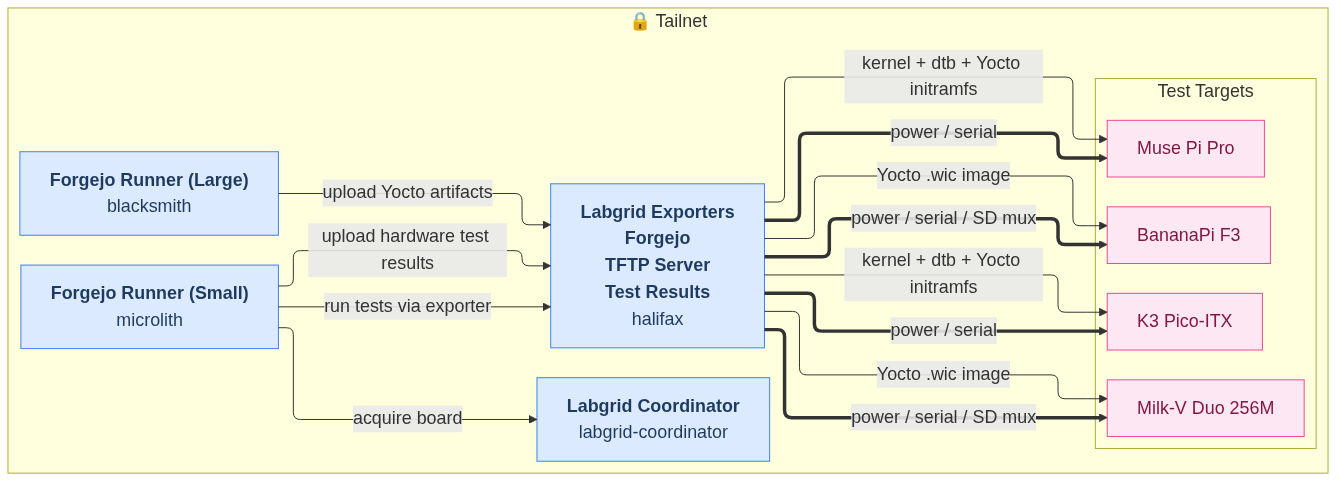
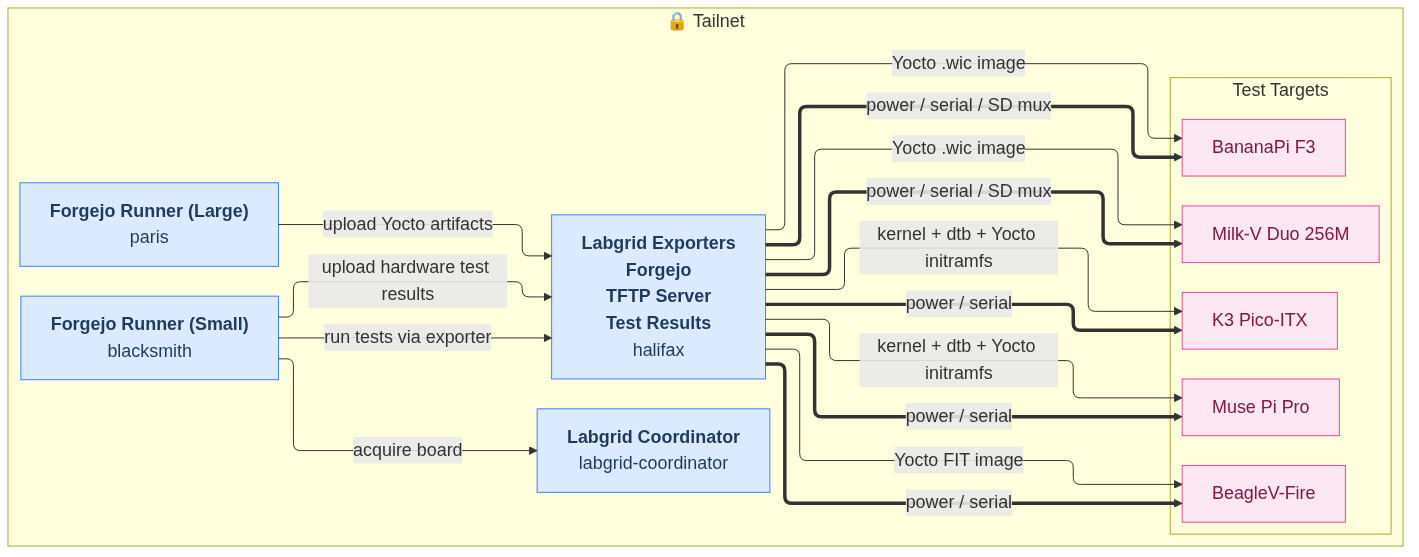
docs: update with new boards, connections
- Switch runners' info (blacksmith and microlith -> paris and
  blacksmith)
- Add BeagleV-Fire node, connections
- Update UARTs (Raspberry Pi Debug Probe -> BayLibre Copilot UART)

Changed region(s): [[0.0, 0.093, 1.0, 0.9917], [0.0, 0.0, 1.0, 0.062], [0.25, 0.7748, 0.3438, 0.8988]]

diff --git a/docs/bom.md b/docs/bom.md
@@ -11,8 +11,8 @@
 |----|----------|----------------|----|-------|-------|--------|
 | `halifax` | halifax | halifax.tailscale.baylibre.com | Debian 13 ("Trixie") | ThinkCentre M75q-1 | AMD Ryzen 5 PRO 3400GE<br/>16 GB DDR4 RAM | active |
 | `coordinator` | labgrid-coordinator | labgrid-coordinator.tailscale.baylibre.com | — | — | — | active |
-| `runner1` | blacksmith | blacksmith.tailscale.baylibre.com | Debian 13 | ThinkCentre M720q | Intel i9-9900T<br/>64 GB DDR4 RAM | active |
-| `runner2` | microlith | microlith.tailscale.baylibre.com | Fedora 44 | ThinkCentre M75q-1 | AMD Ryzen 5 PRO 3400GE<br/>16 GB DDR4 RAM | active |
+| `runner1` | paris | paris.tailscale.baylibre.com | Debian 13 | Custom | AMD Ryzen 9 9950X 16-Core Processor<br/>96 GB DDR5 RAM | active |
+| `runner2` | blacksmith | blacksmith.tailscale.baylibre.com | Debian 13 | ThinkCentre M720q | Intel i9-9900T<br/>64 GB DDR4 RAM | active |
 
 ## Services
 
@@ -32,14 +32,14 @@
 | `board_2` | Muse Pi Pro | SpacemiT | [Muse Pi Pro](https://www.spacemit.com/muse-pi-pro/) | riscv64 (RVA22 + RVV 1.0) | serial + power | active |
 | `board_3` | Milk-V Duo 256M | Milk-V | [Milk-V Duo 256M](https://milkv.io/docs/duo/getting-started/duo256m) | riscv64 (RV64GCV) | serial + power + sdmux | active |
 | `board_4` | K3 Pico-ITX | Sipeed | [K3 Pico-ITX](https://sipeed.com/k3) | riscv64 (RVA23) | serial + power | active |
-| `board_5` | BeagleV-Fire | BeagleBoard.org | [BeagleV-Fire](https://www.beagleboard.org/boards/beaglev-fire) | riscv64 (RV64GC, PolarFire SoC) | serial + power | active |
+| `board_5` | BeagleV-Fire | BeagleBoard | [BeagleV-Fire](https://www.beagleboard.org/boards/beaglev-fire) | riscv64 (RV64GC) | serial + power | active |
 
 ### BananaPi F3
 
 | Interface | Part | Part Number | Role |
 |-----------|------|-------------|------|
 | power | [BayLibre CoPilot](https://baylibre.com/copilot/) | BayLibre_Copilot_Lite_V1.2 | Power control |
-| serial | [Raspberry Pi Debug Probe](https://www.raspberrypi.com/products/debug-probe/) | Debug_Probe__CMSIS-DAP_0101 | USB-to-UART bridge |
+| serial | [BayLibre CoPilot](https://baylibre.com/copilot/) | BayLibre_Copilot_Lite_V1.2 | USB-to-UART bridge |
 | SD mux | [USB SD Mux](https://linux-automation.com/en/products/usb-sd-mux.html) | usb-sd-mux_rev4.0 | USB SD Mux controller |
 
 ### Muse Pi Pro
@@ -47,14 +47,14 @@
 | Interface | Part | Part Number | Role |
 |-----------|------|-------------|------|
 | power | [BayLibre CoPilot](https://baylibre.com/copilot/) | BayLibre_Copilot_Lite_V1.2 | Power control |
-| serial | [Raspberry Pi Debug Probe](https://www.raspberrypi.com/products/debug-probe/) | Debug_Probe__CMSIS-DAP_0101 | USB-to-UART bridge |
+| serial | [BayLibre CoPilot](https://baylibre.com/copilot/) | BayLibre_Copilot_Lite_V1.2 | USB-to-UART bridge |
 
 ### Milk-V Duo 256M
 
 | Interface | Part | Part Number | Role |
 |-----------|------|-------------|------|
 | power | [BayLibre CoPilot](https://baylibre.com/copilot/) | BayLibre_Copilot_Lite_V1.2 | Power control |
-| serial | [Raspberry Pi Debug Probe](https://www.raspberrypi.com/products/debug-probe/) | Debug_Probe__CMSIS-DAP_0101 | USB-to-UART bridge |
+| serial | [BayLibre CoPilot](https://baylibre.com/copilot/) | BayLibre_Copilot_Lite_V1.2 | USB-to-UART bridge |
 | SD mux | [USB SD Mux](https://linux-automation.com/en/products/usb-sd-mux.html) | usb-sd-mux_rev4.0 | USB SD Mux controller |
 
 ### K3 Pico-ITX
@@ -62,11 +62,11 @@
 | Interface | Part | Part Number | Role |
 |-----------|------|-------------|------|
 | power | [BayLibre CoPilot](https://baylibre.com/copilot/) | BayLibre_Copilot_Lite_V1.2 | Power control |
-| serial | [Raspberry Pi Debug Probe](https://www.raspberrypi.com/products/debug-probe/) | Debug_Probe__CMSIS-DAP_0101 | USB-to-UART bridge |
+| serial | [BayLibre CoPilot](https://baylibre.com/copilot/) | BayLibre_Copilot_Lite_V1.2 | USB-to-UART bridge |
 
 ### BeagleV-Fire
 
 | Interface | Part | Part Number | Role |
 |-----------|------|-------------|------|
 | power | [BayLibre CoPilot](https://baylibre.com/copilot/) | BayLibre_Copilot_Lite_V1.2 | Power control |
-| serial | [Raspberry Pi Debug Probe](https://www.raspberrypi.com/products/debug-probe/) | Debug_Probe__CMSIS-DAP_0101 | USB-to-UART bridge |
+| serial | [BayLibre CoPilot](https://baylibre.com/copilot/) | BayLibre_Copilot_Lite_V1.2 | USB-to-UART bridge |
